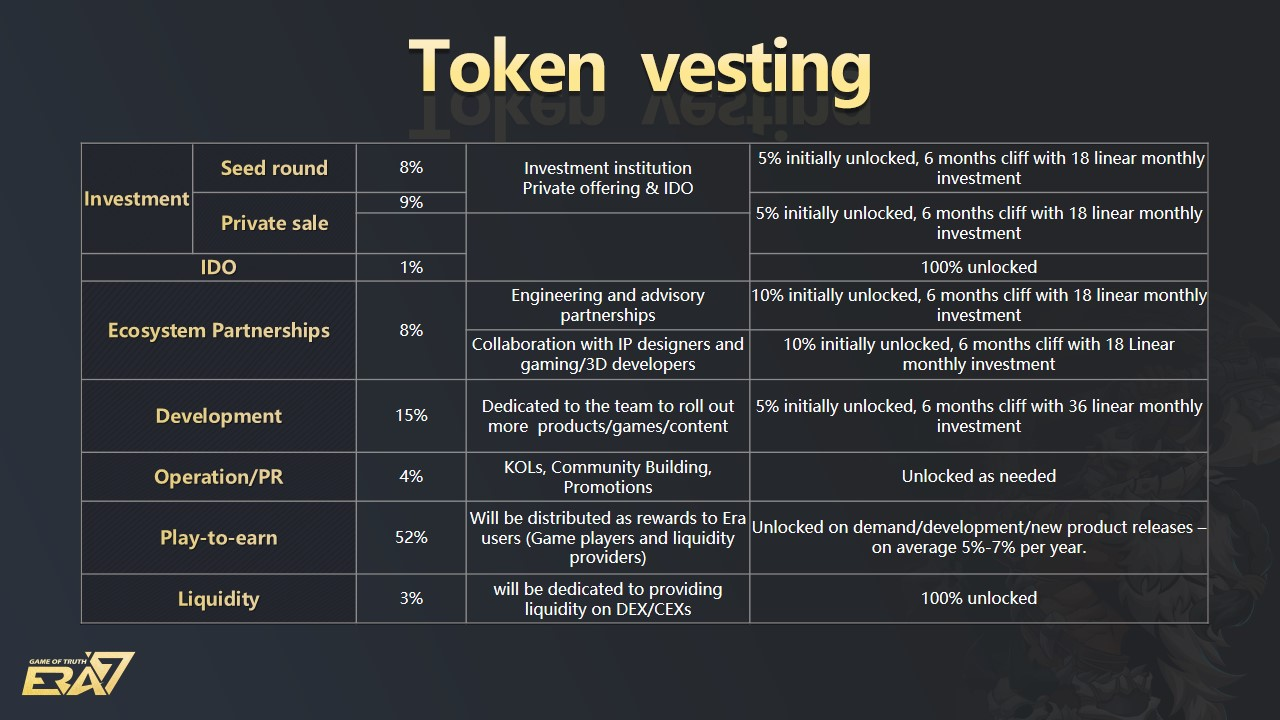
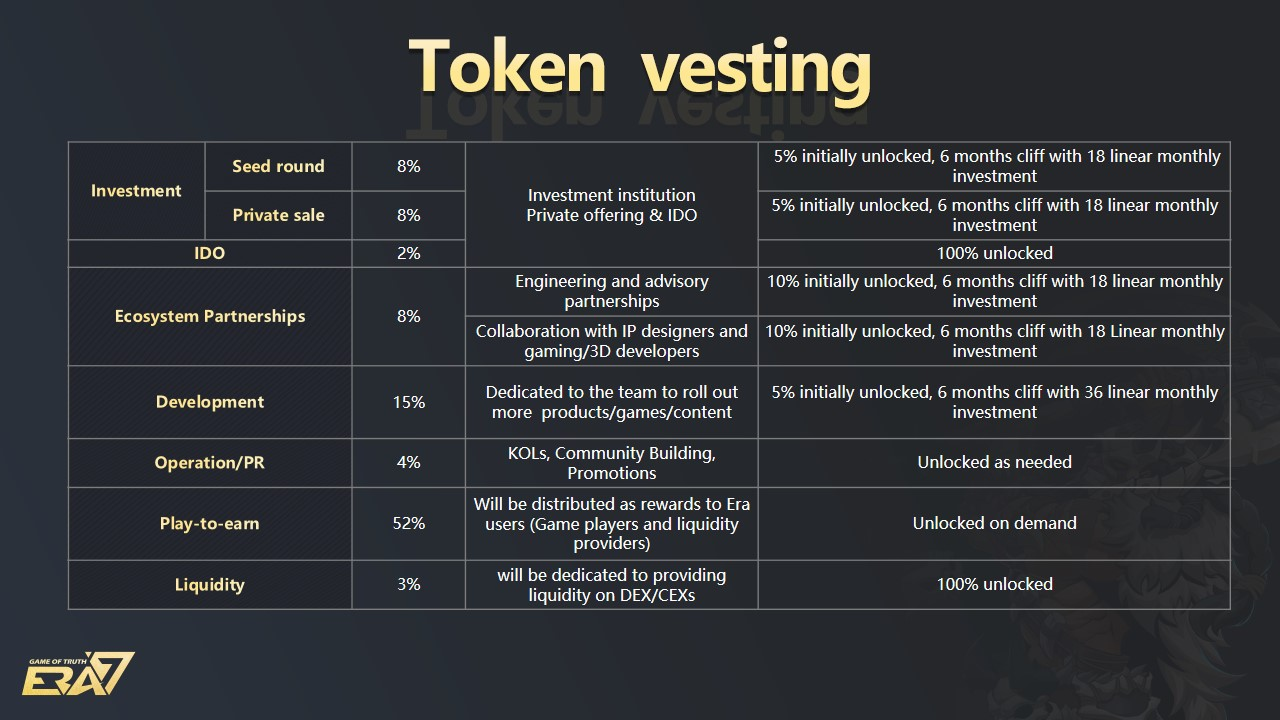
GitBook: [#73] 12.15修改

diff --git a/era7-game-of-truth/token-economy.md b/era7-game-of-truth/token-economy.md
@@ -31,7 +31,7 @@ coverY: 0
 
 ![](../.gitbook/assets/网1.jpg)
 
-![](../.gitbook/assets/tokens.jpg)
+![](../.gitbook/assets/分配.jpg)
 
 * Play to earn – 52%
 * The circulation of earned tokens will account for 52% of the total Era token supply.
@@ -55,7 +55,7 @@ coverY: 0
   * Private1 ,Private2 and institutional investors.
 * IDO 2%
 
-![](../.gitbook/assets/vesting2.jpg)
+![](../.gitbook/assets/vesting.jpg)
 
 ## Treasury
 
